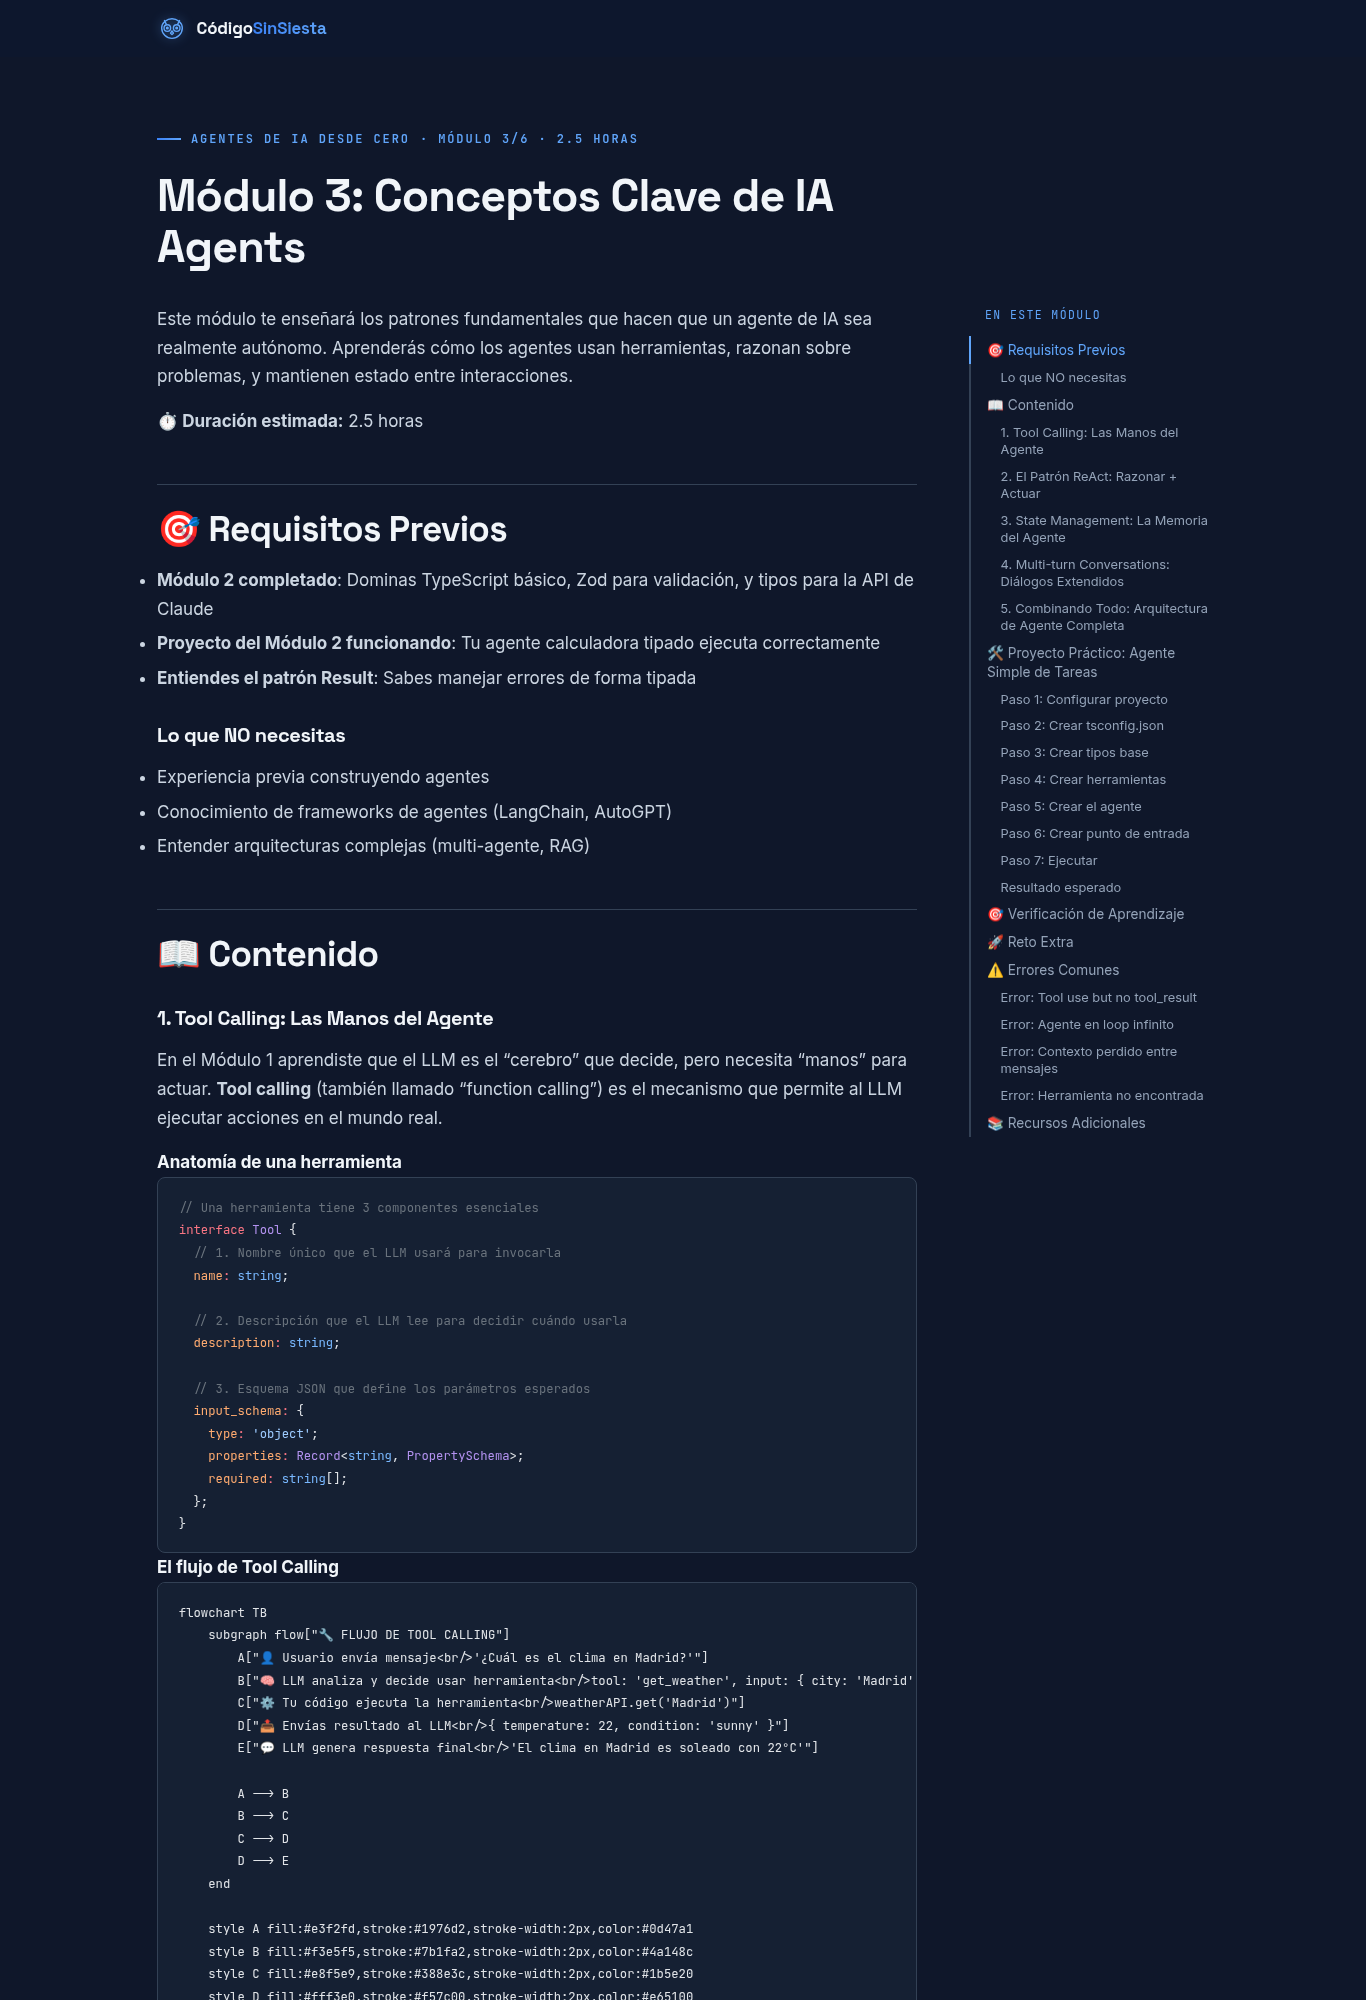
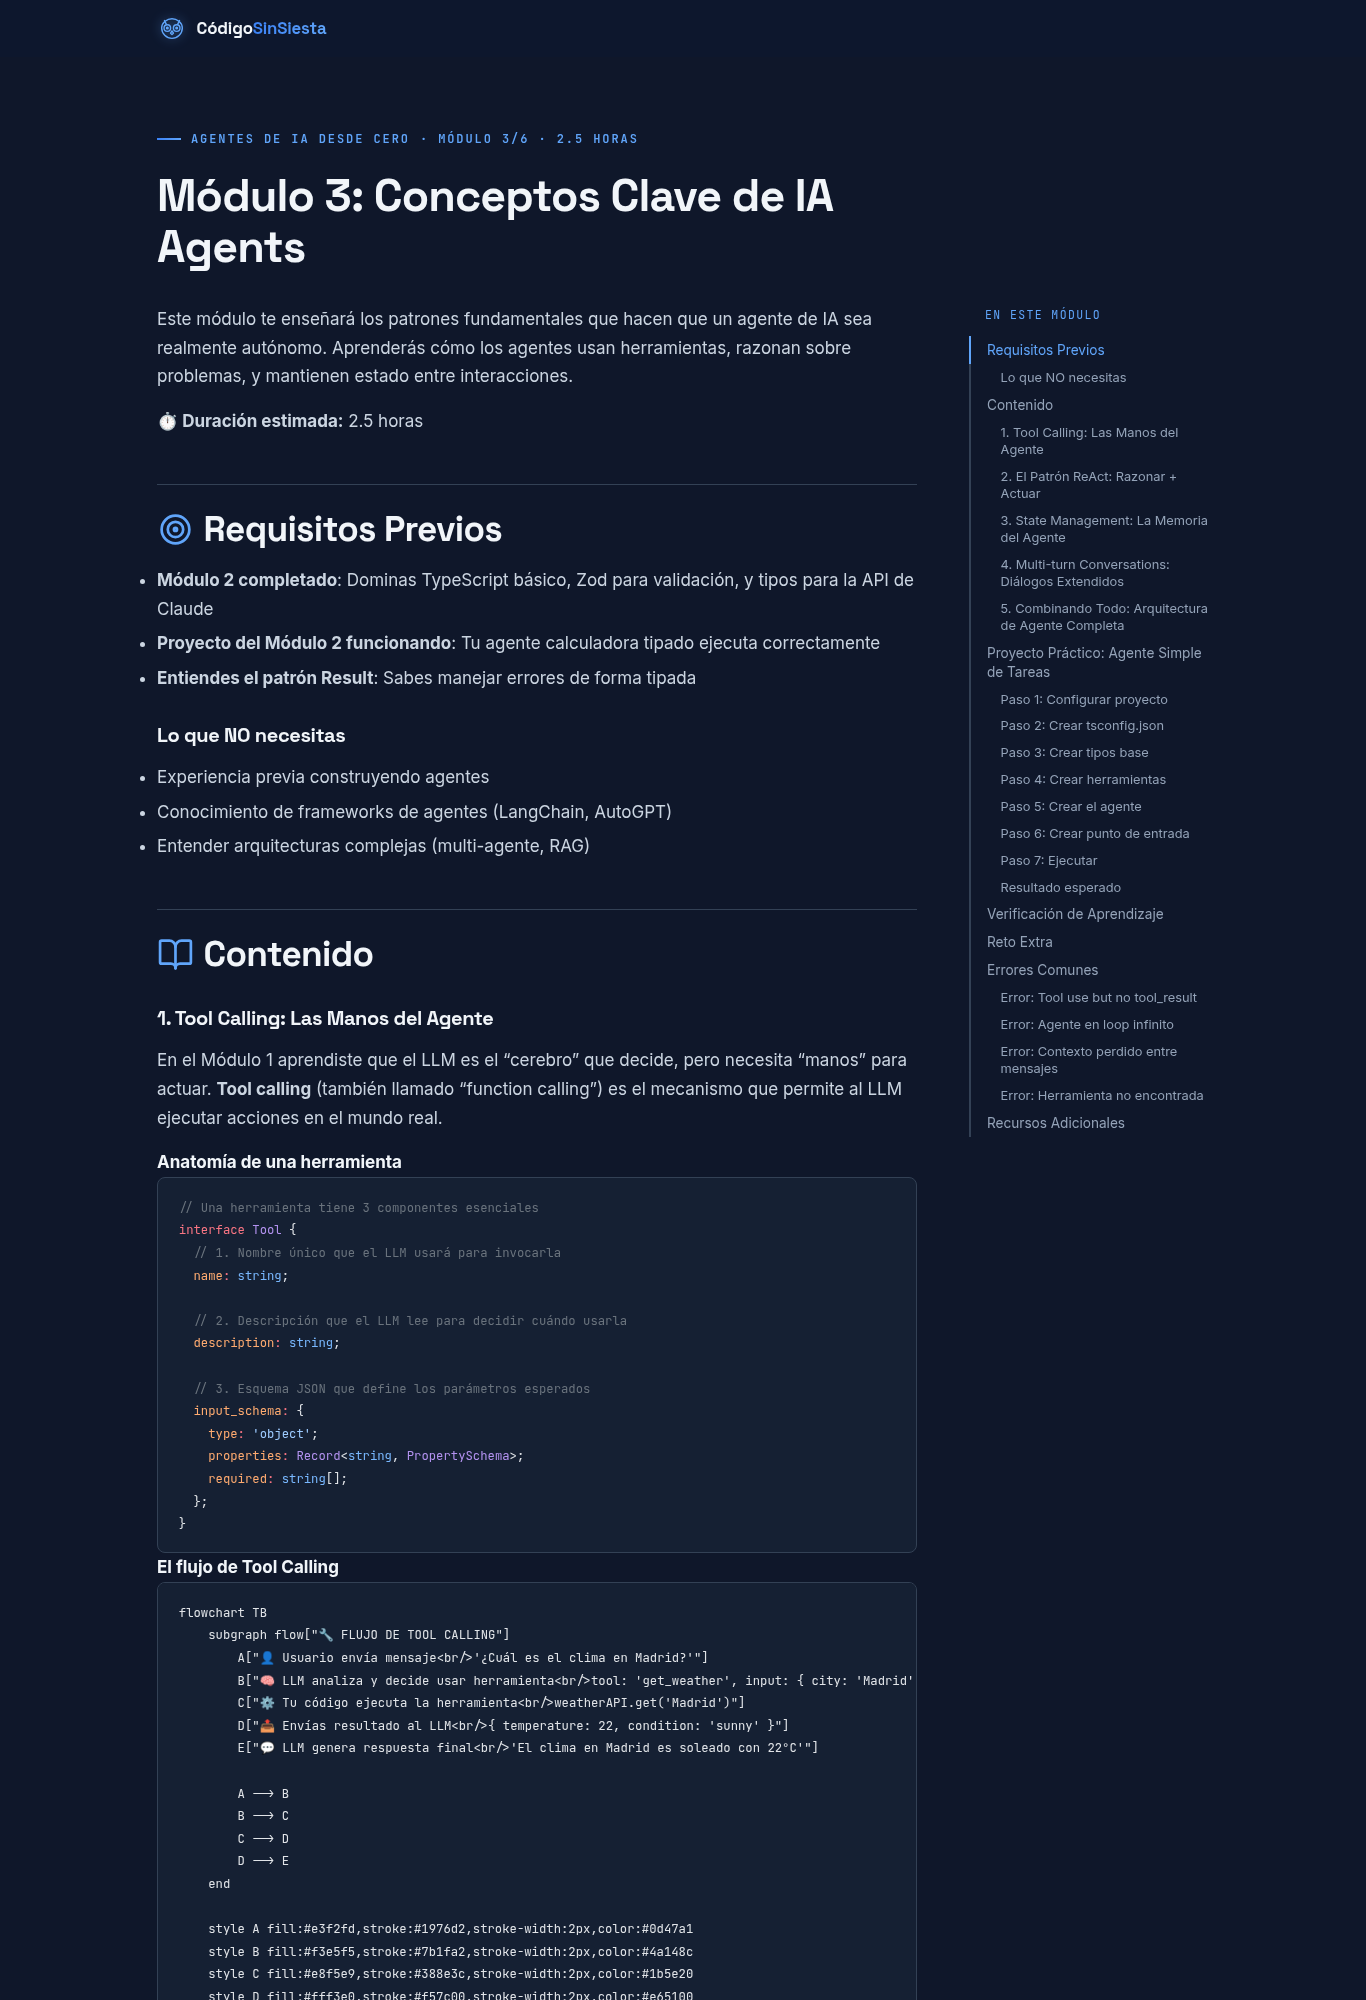
feat(guias): iconos SVG en encabezados (sustituyen a los emoji)
Plugin rehype (src/lib/rehype-heading-icons.mjs) mapea el emoji inicial de cada H2/H3 a un icono SVG inline estilo trazo en color de marca, sin depender de fuentes de emoji del sistema (adiós tofu). El markdown conserva el emoji como marcador semántico. Limpia el emoji del texto del TOC. Actualiza la captura del PR.

diff --git a/src/styles/site.css b/src/styles/site.css
@@ -646,3 +646,20 @@ a.card:hover {
 }
 .lista-check--neutro li::before { content: '·'; color: var(--color-cielo); }
 .lista-check--no li::before { content: '✕'; color: var(--color-tinta3); }
+
+/* ═══ iconos SVG en encabezados de guía (sustituyen a los emoji del markdown) ═══ */
+
+.prose h2.with-icon,
+.prose h3.with-icon {
+  display: flex;
+  align-items: center;
+  gap: 0.6rem;
+}
+
+.heading-icon {
+  flex-shrink: 0;
+  width: 1.05em;
+  height: 1.05em;
+  color: var(--color-cielo);
+  stroke-width: 1.75;
+}